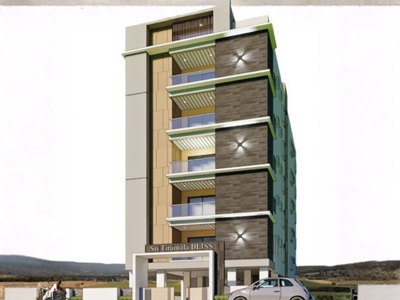
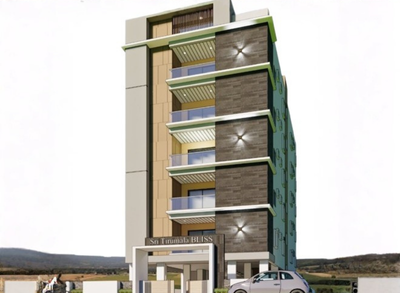
update

diff --git a/css/mainstyle.css b/css/mainstyle.css
@@ -421,6 +421,7 @@
             line-height: 1.7;
             max-width: 280px;
             text-align: justify;
+            text-align-last: left;
             hyphens: none;
             overflow-wrap: normal;
             word-break: keep-all;
@@ -474,6 +475,7 @@
             line-height: 1.7;
             margin: 0;
             text-align: justify;
+            text-align-last: left;
             hyphens: none;
             overflow-wrap: normal;
             word-break: keep-all;
@@ -495,6 +497,7 @@
             line-height: 1.7;
             margin-bottom: 16px;
             text-align: justify;
+            text-align-last: left;
             hyphens: none;
             overflow-wrap: normal;
             word-break: keep-all;
@@ -556,6 +559,7 @@
             line-height: 1.7;
             margin: 0;
             text-align: justify;
+            text-align-last: left;
             hyphens: none;
             overflow-wrap: normal;
             word-break: keep-all;
@@ -573,6 +577,7 @@
             line-height: 1.7;
             transition: color 0.3s ease;
             text-align: justify;
+            text-align-last: left;
             hyphens: none;
             overflow-wrap: normal;
             word-break: keep-all;

diff --git a/css/projectstyle.css b/css/projectstyle.css
@@ -89,7 +89,7 @@
             justify-content: space-between;
             align-items: flex-start;
             margin-bottom: 25px;
-            gap: 30px;
+            gap: 40px;
             opacity: 0;
             transform: translateX(-50px);
             transition: opacity 0.6s ease-out, transform 0.6s ease-out;
@@ -105,19 +105,19 @@
             font-size: 40px;
             font-weight: 700;
             line-height: 1.2;
-            max-width: 500px;
+           
         }
 
         .header-text {
             font-family: 'Inter', sans-serif;
-            max-width: 450px;
-            font-size: 16px;
+            font-size: 15px;
             line-height: 1.7;
             color: #333;
             opacity: 0;
             transform: translateX(50px);
             transition: opacity 0.6s ease-out, transform 0.6s ease-out;
             text-align: justify;
+            text-align-last: left;
             hyphens: none;
             overflow-wrap: normal;
             word-break: keep-all;
@@ -412,6 +412,7 @@
             
             .header-text {
                 text-align: justify;
+                text-align-last: left;
             }
             
             .contact-hero {

diff --git a/index.html b/index.html
@@ -334,6 +334,8 @@
         </div>
     </section>
 
+
+    
     <!-- Why Choose Us Section -->
     <section class="why-choose-section">
         <div class="why-choose-container">
@@ -487,7 +489,7 @@
                 <div class="progress-container">
                     <div class="progress-bar" id="featuredProgress"></div>
                 </div>
-                
+    
                 <div class="controls-wrapper">
                     <button class="arrow-btn" id="prevBtn" aria-label="Previous Projects" style="display: none;">
                         <svg width="24" height="24" viewBox="0 0 24 24" fill="none" stroke="currentColor" stroke-width="2">
@@ -651,7 +653,6 @@
             </div>
         </div>
     </section>
-
 
     <!-- CTA Section -->
     <section class="cta-section">

diff --git a/css/goldengate.css b/css/goldengate.css
@@ -291,6 +291,7 @@ html, body {
     color: #333333;
     line-height: 1.7;
     text-align: justify;
+    text-align-last: left;
     hyphens: none;
     overflow-wrap: normal;
     word-break: keep-all;
@@ -418,6 +419,10 @@ html, body {
         font-size: 13px;
         line-height: 1.7;
         text-align: justify;
+        text-align-last: left;
+        hyphens: none;
+        overflow-wrap: normal;
+        word-break: keep-all;
     }
 
     .about-button {
@@ -479,6 +484,7 @@ html, body {
             color: #333;
             line-height: 1.7;
             text-align: justify;
+            text-align-last: left;
             hyphens: none;
             overflow-wrap: normal;
             word-break: keep-all;

diff --git a/css/contactstyle.css b/css/contactstyle.css
@@ -102,6 +102,7 @@
             line-height: 1.7;
             color: #333;
             text-align: justify;
+            text-align-last: left;
             hyphens: none;
             overflow-wrap: normal;
             word-break: keep-all;

diff --git a/aboutus.html b/aboutus.html
@@ -66,6 +66,7 @@
             </div>
         </div>
     </nav>
+    
   <!-- Main Content Placeholder -->
     <main>
          <!-- Hero Section -->
